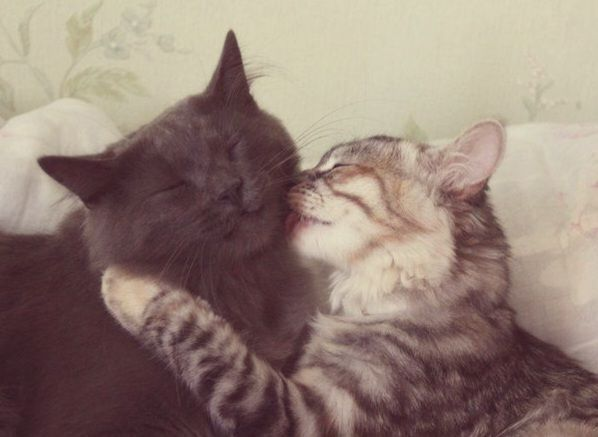
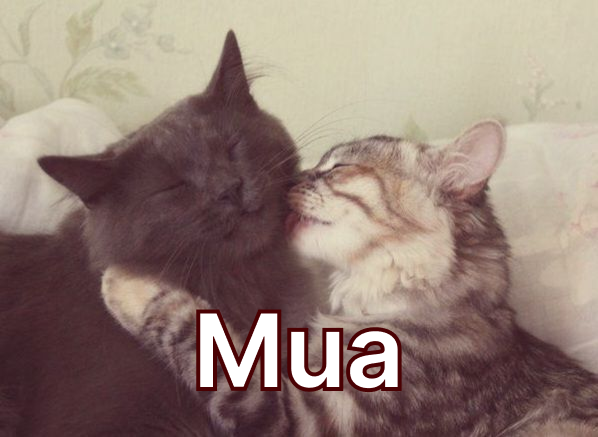
Made celebration feature

Changed region(s): [[0.301, 0.6842, 0.6923, 0.9222]]

diff --git a/script.js b/script.js
@@ -66,9 +66,13 @@ function noWay(){
     count++;
 }
 
-
-
-
+function celebration(){
+    for(let i = 0; i< 3; i++){
+        setTimeout(()=>{
+            image.setAttribute("src", `./images/kissing${i}.png`);
+        }, i*1000)
+    }
+}
 
 function yes(){
     image.style.display = "block";
@@ -76,6 +80,9 @@ function yes(){
     buttonNo.style.display = "none";
     buttonYes.style.display = "none";
     document.querySelector(".question").style.display = "none";
+    setTimeout(()=>{
+        celebration();
+    }, 1500);
 }
 buttonNo.addEventListener("mouseover", noWay);
 buttonYes.addEventListener("click", yes);
